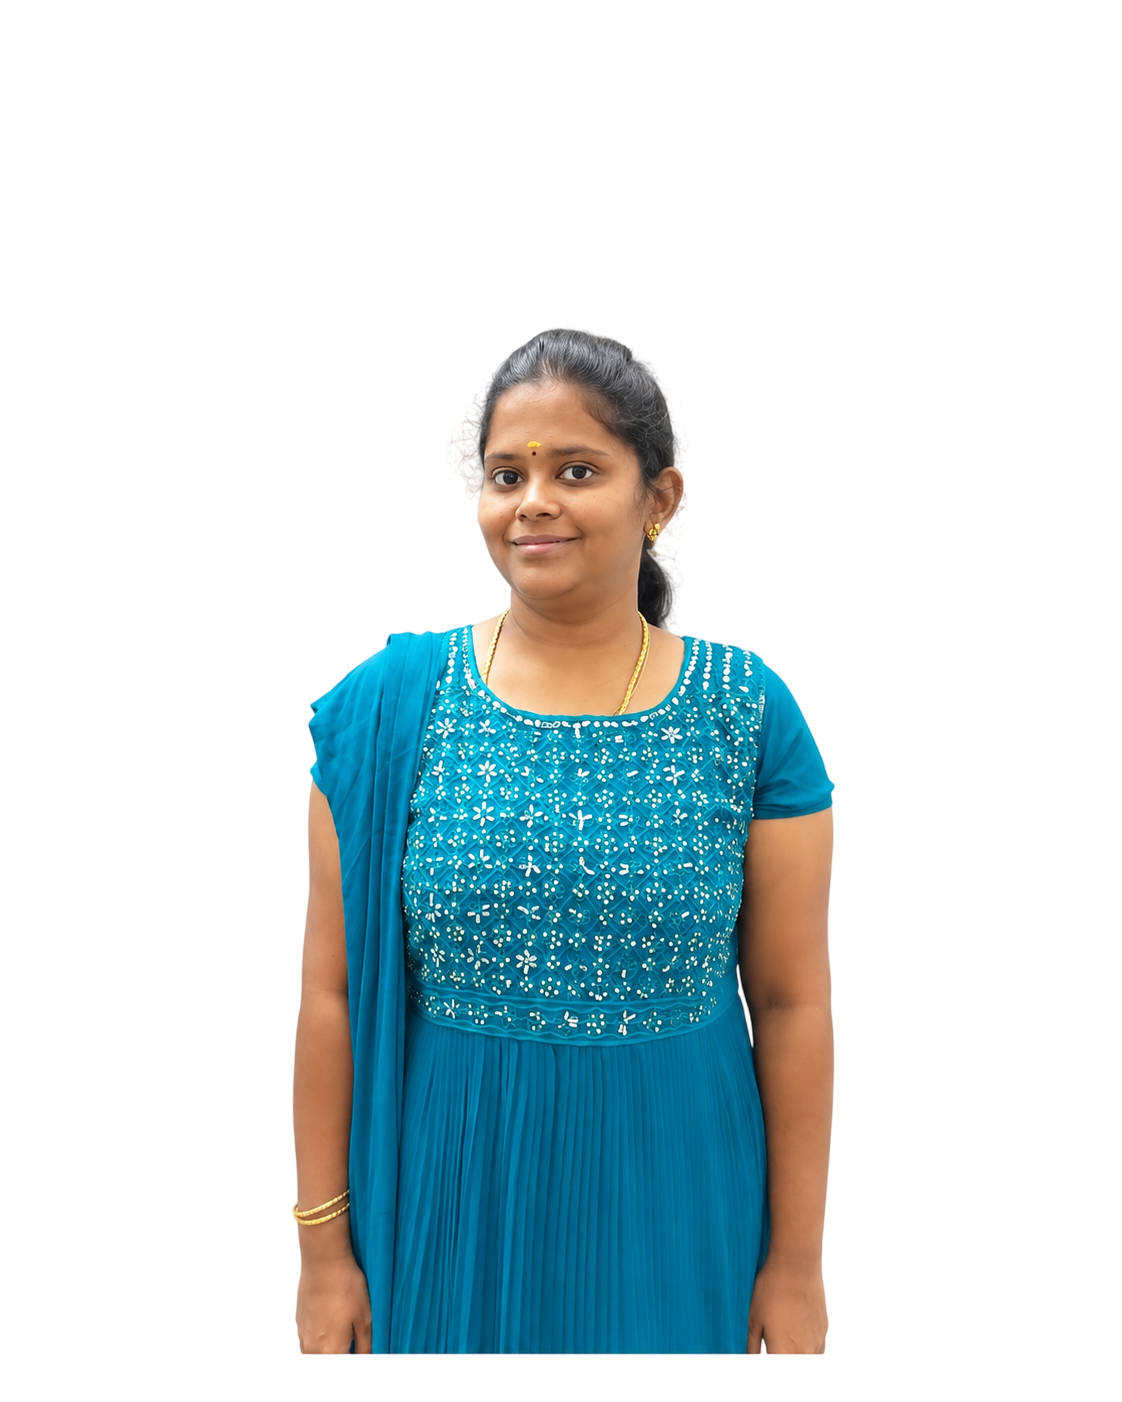
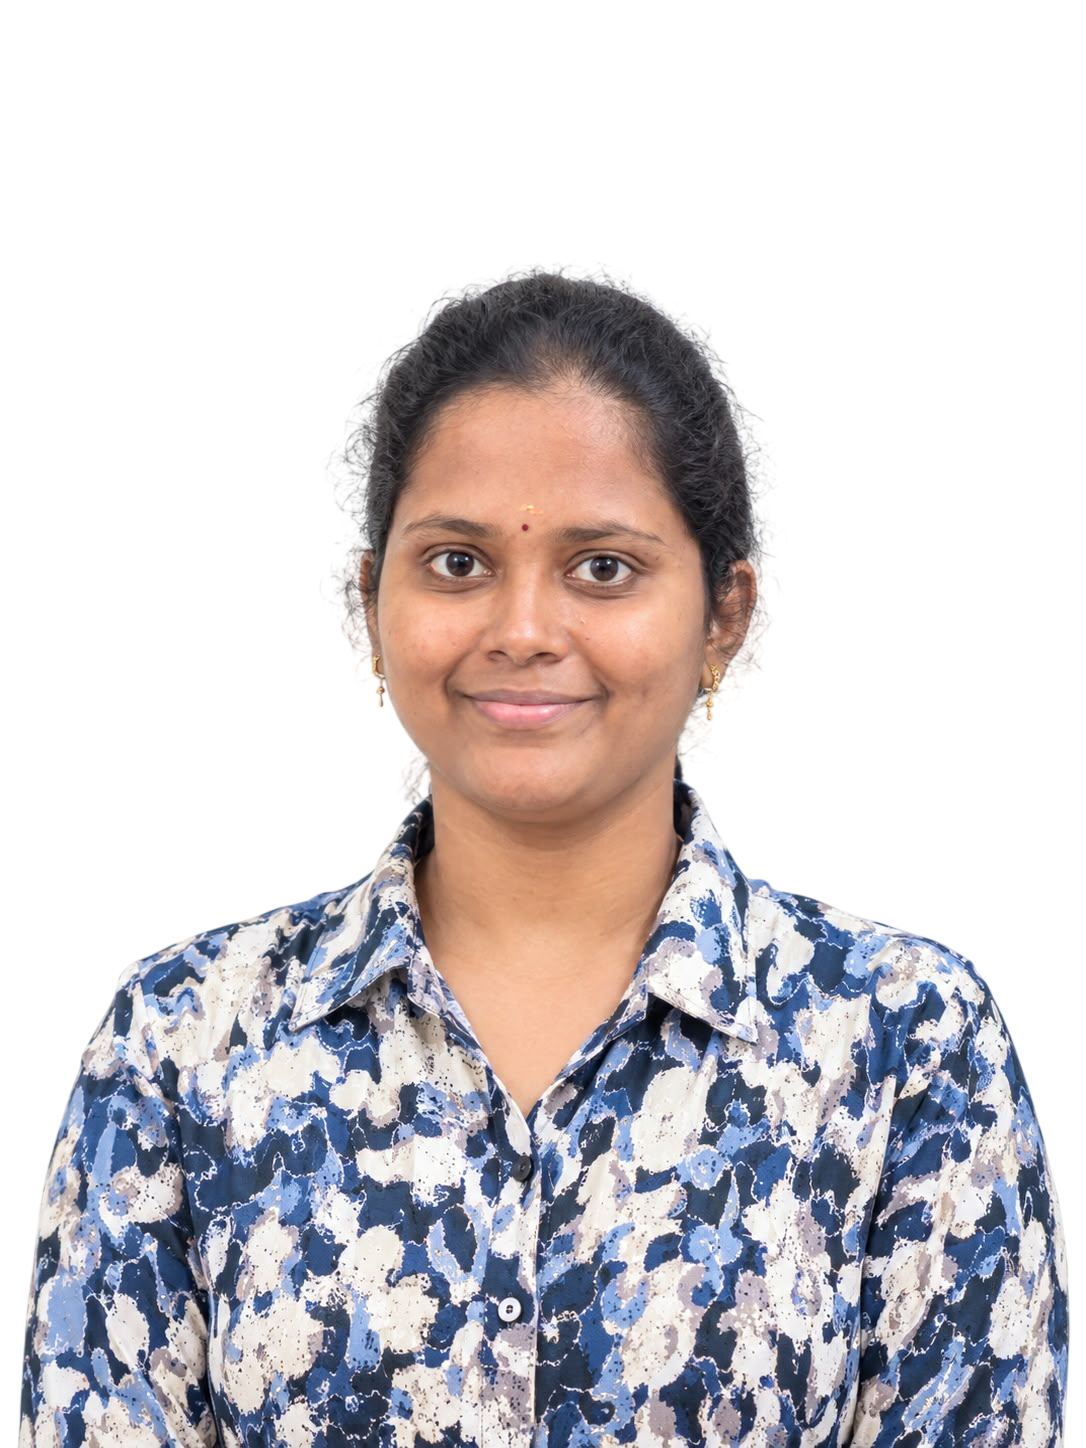
updated footer linkedin link

diff --git a/components/Footer.tsx b/components/Footer.tsx
@@ -1,7 +1,7 @@
 'use client'
 
 import Link from 'next/link'
-import { Mail, Phone, MapPin } from 'lucide-react'
+import { Mail, Phone, MapPin, Instagram, Linkedin } from 'lucide-react'
 
 const Footer = () => {
   return (
@@ -13,9 +13,29 @@ const Footer = () => {
             <div className="flex items-center">
               <a href="/"><img src="/assets/software-development-company.webp" alt="FuelDigi Logo" width={120} height={120} className="rounded-full" /></a>
             </div>
-            <p className="text-white">
+            <p className="text-white mt-4">
               Smart SaaS Solutions for Smarter Businesses. Building customized software that grows with you.
             </p>
+            <div className="flex items-center gap-3 mt-6">
+              <a
+                href="https://www.instagram.com/fueldigi/?hl=en"
+                target="_blank"
+                rel="noopener noreferrer"
+                aria-label="Instagram"
+                className="w-10 h-10 rounded-full bg-white/10 hover:bg-white hover:text-[#840c1c] text-white flex items-center justify-center transition-all duration-300 hover:scale-110"
+              >
+                <Instagram size={20} />
+              </a>
+              <a
+                href="https://www.linkedin.com/company/fueldigi-marketing-private-limited/posts/?feedView=all"
+                target="_blank"
+                rel="noopener noreferrer"
+                aria-label="LinkedIn"
+                className="w-10 h-10 rounded-full bg-white/10 hover:bg-white hover:text-[#840c1c] text-white flex items-center justify-center transition-all duration-300 hover:scale-110"
+              >
+                <Linkedin size={20} />
+              </a>
+            </div>
           </div>
 
           {/* Quick Links */}
